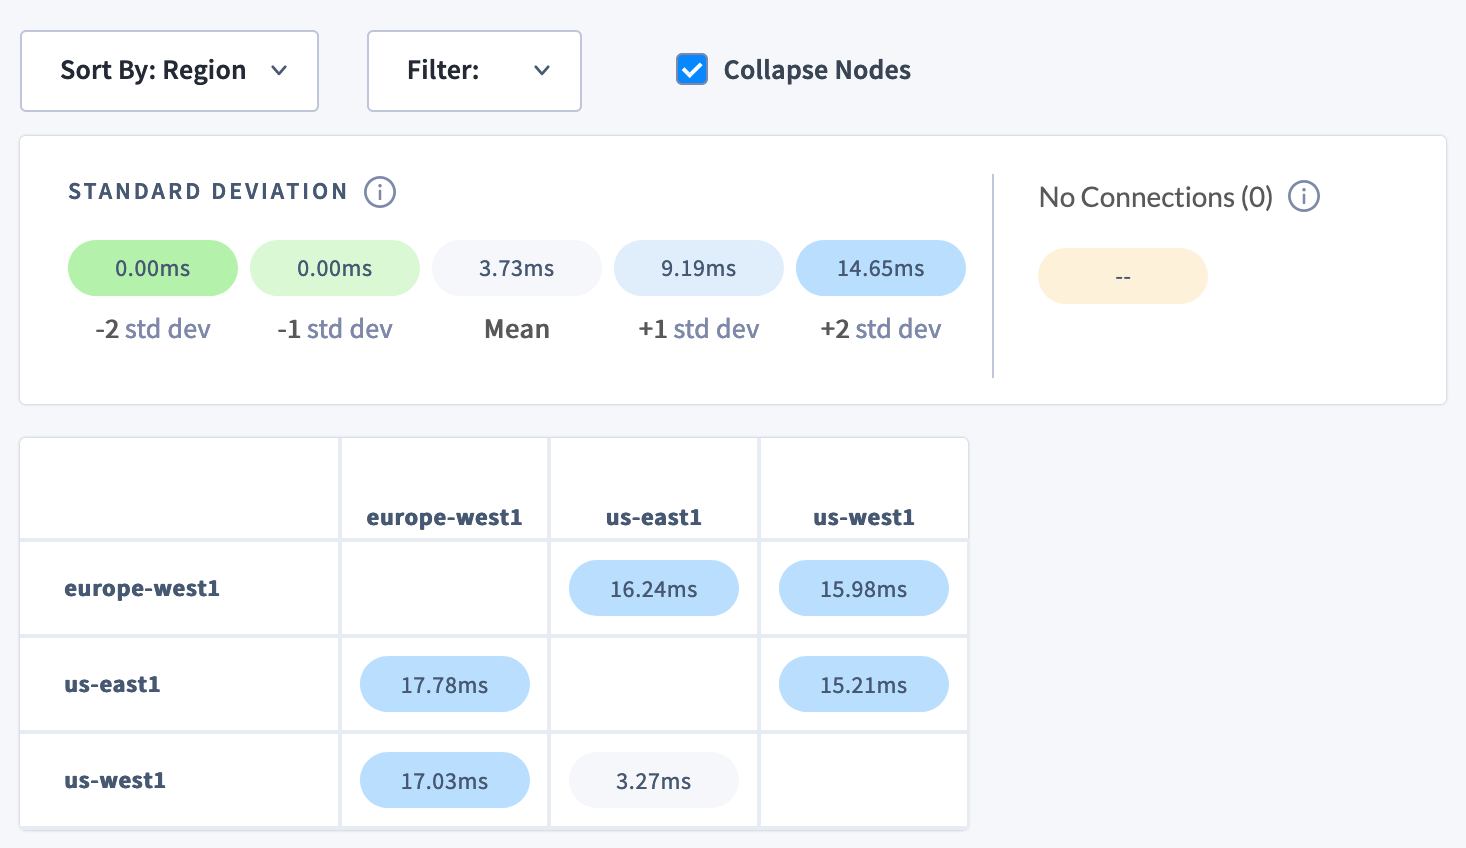
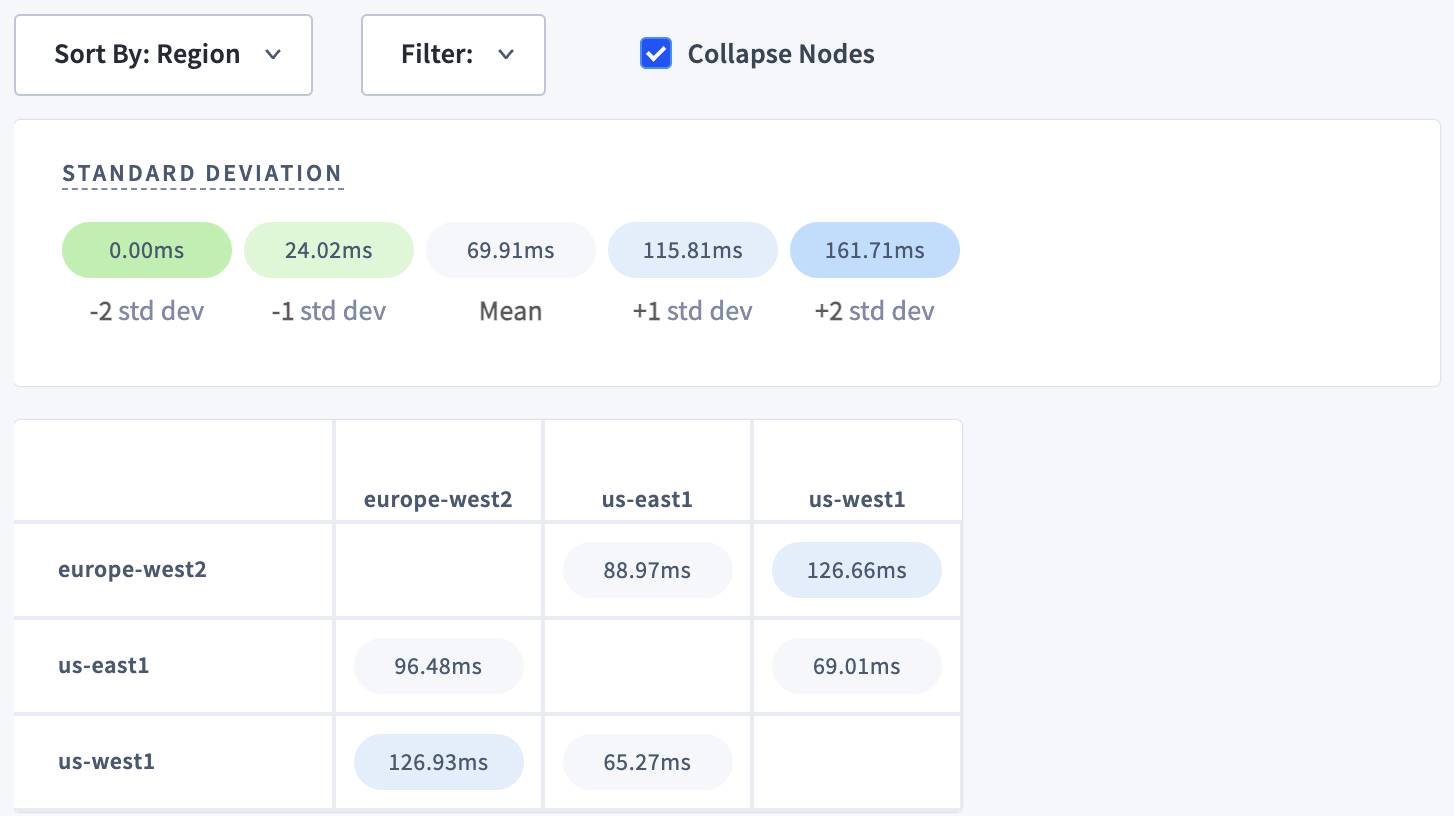
(1) Updated Network page and images. (2) Updated sidebar-data for self-hosted-deployments. (3) Updated Troubleshoot Self-Hosted Setup page, Network partitioning section.

diff --git a/src/current/v23.2/ui-network-latency-page.md b/src/current/v23.2/ui-network-latency-page.md
@@ -1,29 +1,34 @@
 ---
-title: Network Latency Page
+title: Network Page
 summary: The Network Latency page displays round-trip latencies between all nodes in your cluster.
 toc: true
-docs_area: reference.db_console
 ---
 
-The **Network Latency** page displays round-trip latencies between all nodes in your cluster. Latency is the time required to transmit a packet across a network, and is highly dependent on your network topology. Use this page to determine whether your latency is appropriate for your [topology pattern]({% link {{ page.version.version }}/topology-patterns.md %}), or to identify nodes with unexpected latencies.
+The **Network** page displays round-trip latencies between all nodes in your cluster. This represents the time required to transmit a packet across a network, and is highly dependent on your network topology. Use this page to determine whether your latency is appropriate for your [topology pattern]({% link {{ page.version.version }}/topology-patterns.md %}), and to identify nodes with unexpected latencies or connectivity issues.
 
-To view this page, [access the DB Console]({% link {{ page.version.version }}/ui-overview.md %}#db-console-access) and click **Network Latency** in the left-hand navigation.
+To view this page, [access the DB Console]({% link {{ page.version.version }}/ui-overview.md %}#db-console-access) and click **Network** in the left-hand navigation.
 
-## Sort and filter network latency
+## Sort and filter network latencies
 
-Use the **Sort By** menu to arrange the latency matrix by [locality]({% link {{ page.version.version }}/cockroach-start.md %}#locality) (e.g., cloud, region, availability zone, datacenter).
+Use the **Sort By** menu to arrange the network matrix by [locality]({% link {{ page.version.version }}/cockroach-start.md %}#locality) (e.g., cloud, region, availability zone, datacenter).
 
 Use the **Filter** menu to select specific nodes or localities to view.
 
 Select **Collapse Nodes** to display the mean latencies of each locality, depending on how the matrix is sorted. This is a way to quickly assess cross-regional or cross-cloud latency.
 
-## Understanding the Network Latency matrix
+## Interpret the network matrix
 
-Each cell in the matrix displays the round-trip latency in milliseconds between two nodes in your cluster. Round-trip latency includes the return time of a packet. Latencies are color-coded by their standard deviation from the mean latency on the network: green for lower values, and blue for higher.
+Each cell in the matrix displays the round-trip latency in milliseconds between two nodes in your cluster. Round-trip latency includes the return time of a packet. Latencies are color-coded by their standard deviation from the mean latency on the network: green for lower values, and blue for higher. Nodes with the lowest latency are displayed in darker green, and nodes with the highest latency are displayed in darker blue.
 
 <img src="{{ 'images/v23.2/ui_network_latency_matrix.png' | relative_url }}" alt="DB Console Network Latency matrix" style="border:1px solid #eee;max-width:100%" />
 
-Rows represent origin nodes, and columns represent destination nodes. Hover over a cell to see round-trip latency and locality metadata for origin and destination nodes.
+Rows represent origin nodes, and columns represent destination nodes. Hover over a cell to display more details:
+
+- The direction of the connection marked by `From` and `To`.
+- Locality metadata for origin and destination.q
+- Round-trip latency.
+
+The page automatically refreshes every 30 seconds to show the most recent information.
 
 On a [typical multi-region cluster]({% link {{ page.version.version }}/demo-low-latency-multi-region-deployment.md %}), you can expect much lower latencies between nodes in the same region/availability zone. Nodes in different regions/availability zones, meanwhile, will experience higher latencies that reflect their geographical distribution.
 
@@ -33,15 +38,37 @@ For instance, the cluster shown above has nodes in `us-west1`, `us-east1`, and `
 
 ### No connections
 
-Nodes that have lost a connection are displayed in a separate color. This can help you locate a network partition in your cluster.
+Nodes that have completely lost connectivity are color-coded depending on connection status:
+
+- Orange with an exclamation mark indicates `unknown connection state`.
+- Red with a [no symbol](https://www.wikipedia.org/wiki/No_symbol) indicates `Failed connection`. 
+
+This information can help you diagnose a network partition in your cluster.
+
+<img src="{{ 'images/v23.2/ui_network_latency_matrix_suspect_node.png' | relative_url }}" alt="DB Console Network Latency suspect node" style="border:1px solid #eee;max-width:100%" />
+
+Hover over a cell to display more details:
+
+- The direction of the connection marked by `From` and `To`.
+- Locality metadata for origin and destination.
+- Connection status.
+- The error message that resulted from the most recent connection attempt.
+
+This specific information can help you understand the root cause of the connectivity issue.
 
 {{site.data.alerts.callout_info}}
-A network partition prevents nodes from communicating with each other in one or both directions. This can be due to a configuration problem with the network, such as when allowlisted IP addresses or hostnames change after a node is torn down and rebuilt. In a symmetric partition, node communication is broken in both directions. In an asymmetric partition, node communication works in one direction but not the other.
+A network partition occurs when two or more nodes are prevented from communicating with each other in one or both directions. A network partition can be caused by a network outage or a configuration problem with the network, such as when allowlisted IP addresses or hostnames change after a node is torn down and rebuilt. In a symmetric partition, node communication is disrupted in both directions. In an asymmetric partition, nodes can communicate in one direction but not the other.
 
 The effect of a network partition depends on which nodes are partitioned, where the ranges are located, and to a large extent, whether [localities]({% link {{ page.version.version }}/cockroach-start.md %}#locality) are defined. If localities are not defined, a partition that cuts off at least (n-1)/2 nodes will cause data unavailability.
 {{site.data.alerts.end}}
 
-Click the **NO CONNECTIONS** link to see lost connections between nodes or [localities]({% link {{ page.version.version }}/cockroach-start.md %}#locality), if any are defined.
+### Node liveness status
+
+Hover over a node's ID in the row and column headers to show the node's liveness status, such as `healthy` or `suspect`. Node liveness status is also indicated by the colored circle next to the Node ID: green for `healthy` or red for `suspect`.
+
+If a `suspect` node stays offline for the duration set by [`server.time_until_store_dead`]({% link {{ page.version.version }}/cluster-settings.md %}#setting-server-time-until-store-dead) (5 minutes by default), the [cluster considers the node "dead"]({% link {{ page.version.version }}/node-shutdown.md %}#process-termination) and the node is removed from the matrix.
+
+The number of `LIVE` (healthy), `SUSPECT`, `DRAINING` and `DEAD` nodes is displayed under Node Status on the [Cluster Overview page]({% link {{ page.version.version }}/ui-cluster-overview-page.md %}).
 
 ## Topology fundamentals
 

diff --git a/src/current/v23.2/cluster-setup-troubleshooting.md b/src/current/v23.2/cluster-setup-troubleshooting.md
@@ -230,9 +230,14 @@ Again, firewalls or hostname issues can cause any of these steps to fail.
 
 #### Network partition
 
-If the DB Console lists any dead nodes on the [**Cluster Overview** page]({% link {{ page.version.version }}/ui-cluster-overview-page.md %}), then you might have a network partition.
+If the DB Console
 
-**Explanation:** A network partition prevents nodes from communicating with each other in one or both directions. This can be due to a configuration problem with the network, such as when allowlisted IP addresses or hostnames change after a node is torn down and rebuilt. In a symmetric partition, node communication is broken in both directions. In an asymmetric partition, node communication works in one direction but not the other.
+- lists any suspect or dead nodes on the [**Cluster Overview** page]({% link {{ page.version.version }}/ui-cluster-overview-page.md %}) or 
+- indicates any suspect nodes on the [**Network** page]({% link {{ page.version.version }}/ui-network-latency-page.md %}#node-liveness-status),
+
+then you might have a network partition.
+
+**Explanation:** A network partition occurs when two or more nodes are prevented from communicating with each other in one or both directions. A network partition can be caused by a network outage or a configuration problem with the network, such as when allowlisted IP addresses or hostnames change after a node is torn down and rebuilt. In a symmetric partition, node communication is disrupted in both directions. In an asymmetric partition, nodes can communicate in one direction but not the other.
 
 The effect of a network partition depends on which nodes are partitioned, where the ranges are located, and to a large extent, whether [localities]({% link {{ page.version.version }}/cockroach-start.md %}#locality) are defined. If localities are not defined, a partition that cuts off at least (n-1)/2 nodes will cause data unavailability.
 
@@ -240,8 +245,9 @@ The effect of a network partition depends on which nodes are partitioned, where 
 
 To identify a network partition:
 
-1.  Access the [Network Latency]({% link {{ page.version.version }}/ui-network-latency-page.md %}) page of the DB Console.
-1.  In the **Latencies** table, check for nodes with [no connections]({% link {{ page.version.version }}/ui-network-latency-page.md %}#no-connections). This indicates that a node cannot communicate with another node, and might indicate a network partition.
+1.  In the DB Console, access the [Network page]({% link {{ page.version.version }}/ui-network-latency-page.md %}).
+1.  In the network matrix, check for nodes with [no connections]({% link {{ page.version.version }}/ui-network-latency-page.md %}#no-connections). This indicates that a node cannot communicate with another node, and might indicate a network partition.
+1.  Hover over a cell in the matrix to see the connection status and the error message that resulted from the most recent connection attempt.
 
 ## Authentication issues
 

diff --git a/src/current/cockroachcloud/metrics-page.md b/src/current/cockroachcloud/metrics-page.md
@@ -9,6 +9,7 @@ The **Metrics** page is available for CockroachDB {{ site.data.products.serverle
 
 - [**Monitor SQL Activity**](#monitor-sql-activity)
 - [**Identify SQL Problems**](#identify-sql-problems)
+- [Create **Custom** charts](#create-custom-charts)
 
 ## Time interval selection
 
@@ -75,6 +76,10 @@ This graph shows a moving average of the number of statements with [full table a
 This graph shows a moving average of the number of SQL statements that experienced [contention](https://www.cockroachlabs.com/docs/{{site.current_cloud_version}}/performance-best-practices-overview#transaction-contention) across the cluster.
 
 See the [Statements page]({% link cockroachcloud/statements-page.md %}) for more details on the cluster's SQL statements.
+
+## Create Custom charts
+
+
 
 ## See also
 
